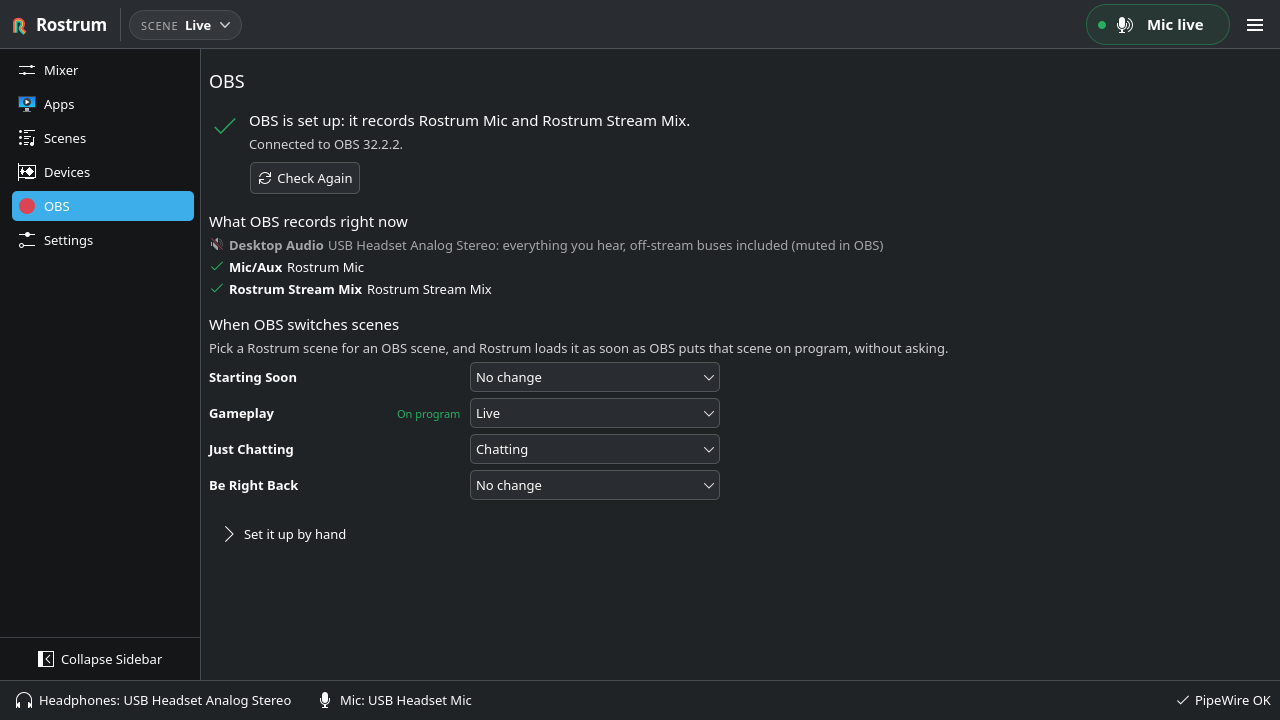
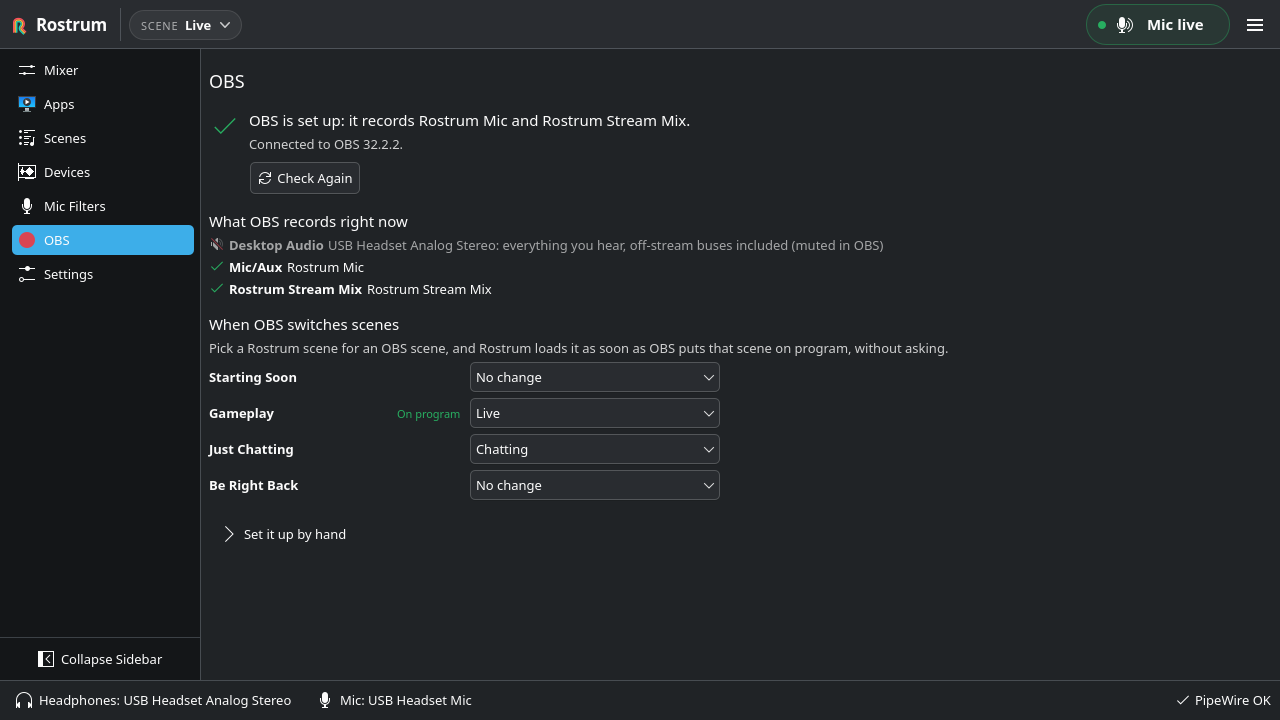
Docs: mic check in the README, store listing and accessibility notes; Mic Filters screenshot; screenshots show the new sidebar

Changed region(s): [[0.0, 0.2444, 0.1562, 0.3972]]

diff --git a/README.md b/README.md
@@ -16,7 +16,7 @@
 
 > *A stream mix console for Linux, not a patchbay.*
 
-![The Mixer: Headphones and Stream masters, then six buses with faders, mute, solo, destinations and the apps on each bus](docs/screenshots/mixer.png)
+![The Mixer: Headphones and Stream masters, then six buses with faders, mute, solo, destinations and the apps on each bus, and FX for the mic filters](docs/screenshots/mixer.png)
 
 
 ## 🌟 Highlights
@@ -31,6 +31,9 @@
   (RNNoise), cut rumble and even out your level. The stream and every app that records your mic,
   Discord included, hear the clean voice; audio tools keep the plain mic, and any app can be
   switched. It all runs inside PipeWire, so it keeps working if Rostrum quits.
+- 👂 **Hear what your viewers hear.** Check Mic records 5 seconds of your stream mic, gain and
+  filters included, plays it back in your headphones only, and tells you if the level is good, too
+  quiet or too loud.
 - 🎬 **Scenes.** Recall every level, mute and destination at once, from the header or a global shortcut.
 - 🪄 **Apps find their bus on their own.** Discord goes to Voice, Spotify to Music, Steam and Proton
   games to Game, and Streamer.bot to Alerts. Every placement shows why it was made, and OBS and audio
@@ -140,6 +143,9 @@ Five minutes to a split stream:
    mic and the system's default input are never changed: apps are moved to "Rostrum Filtered Mic",
    which you can also pick in an app's own settings. OBS keeps recording Rostrum Mic, which is
    filtered too.
+
+   ![The Mic Filters page: the on switch, preset and who gets the filtered mic, then Check Your Mic and the rumble filter](docs/screenshots/micfilters.png)
+
 8. **Check how you sound.** Under "Check Your Mic" (on Mic Filters and Devices, or Check Mic in
    the header's mic popup), press **Check Mic** and talk for 5 seconds. Rostrum plays the
    recording back in your headphones only, exactly as the stream gets it, with gain and filters,

diff --git a/ACCESSIBILITY.md b/ACCESSIBILITY.md
@@ -32,6 +32,12 @@ Custom controls set an accessible name and, where Qt cannot work it out, a role:
 - **Meters** are exposed as progress bars. Their description gives the level in words: "Silent",
   a peak level in dB such as "-12 dB", or "Clipping". It updates at most twice a second so it does
   not flood the screen reader.
+- **Mic filters:** the FX button on the Mic strip is named "Mic filters". On the Mic Filters page,
+  each filter's switch and slider is named, and a slider's description gives its value with the
+  unit, such as "-40 dB". Each app's switch is named "Filtered mic for" and the app.
+- **Mic check:** the progress bar is named "Recording progress" or "Playback progress", and the
+  result is written out with the loudest level ("Good level: your loudest moment was -7.0 dBFS"), so
+  the check does not depend on seeing a meter.
 - **Apps:** each row is read as the app and its bus ("Firefox, on Music"). App chips on the Mixer
   give the reason when Rostrum placed an app automatically.
 - **Navigation:** the sidebar is a list of page tabs, and the scene switcher says the current scene
@@ -59,6 +65,7 @@ Page Down twice, M, 2, Ctrl+S) is part of the smoke tests in
 | Bus fader | 1 / 2 / 3 | Send to Headphones / Stream / Both |
 | Bus fader | F2 | Rename the bus |
 | Bus fader | Menu key | Open the bus's context menu |
+| FX button (Mic strip) | Menu key | Open the Mic Filters page |
 | Master fader | Right / Left | Level up or down 1 % |
 | Master fader | Page Up / Page Down, M | Level up or down 10 %, mute |
 | Sidebar | Enter or Space | Open the selected page |

diff --git a/docs/privacy.md b/docs/privacy.md
@@ -7,7 +7,7 @@ touches the network, apart from obs-websocket on `localhost` (see [OBS](#obs) be
 
 Your audio never leaves your computer. Mic filters, noise removal included, run inside PipeWire on
 your machine; RNNoise's model is part of the plugin, and no audio, level or transcript is stored or
-sent.
+sent. Check Mic keeps its 5-second recording in memory only and never writes it to disk.
 
 ## Crash reports
 
